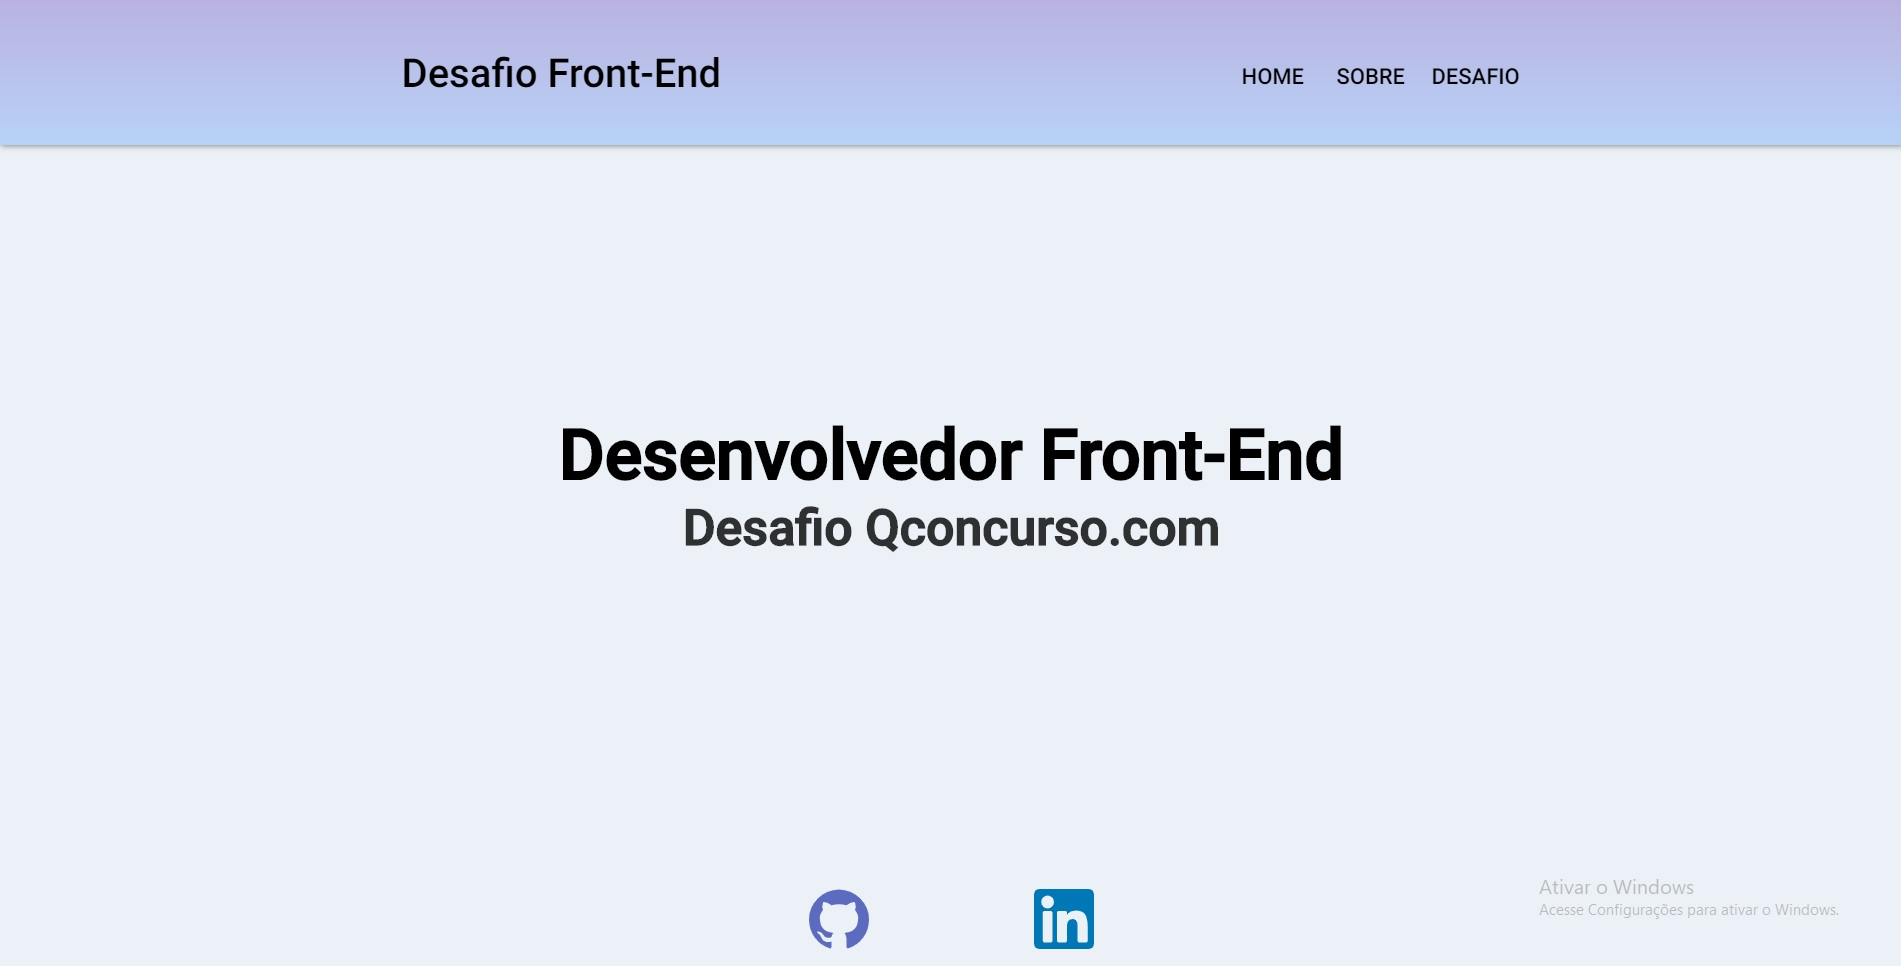
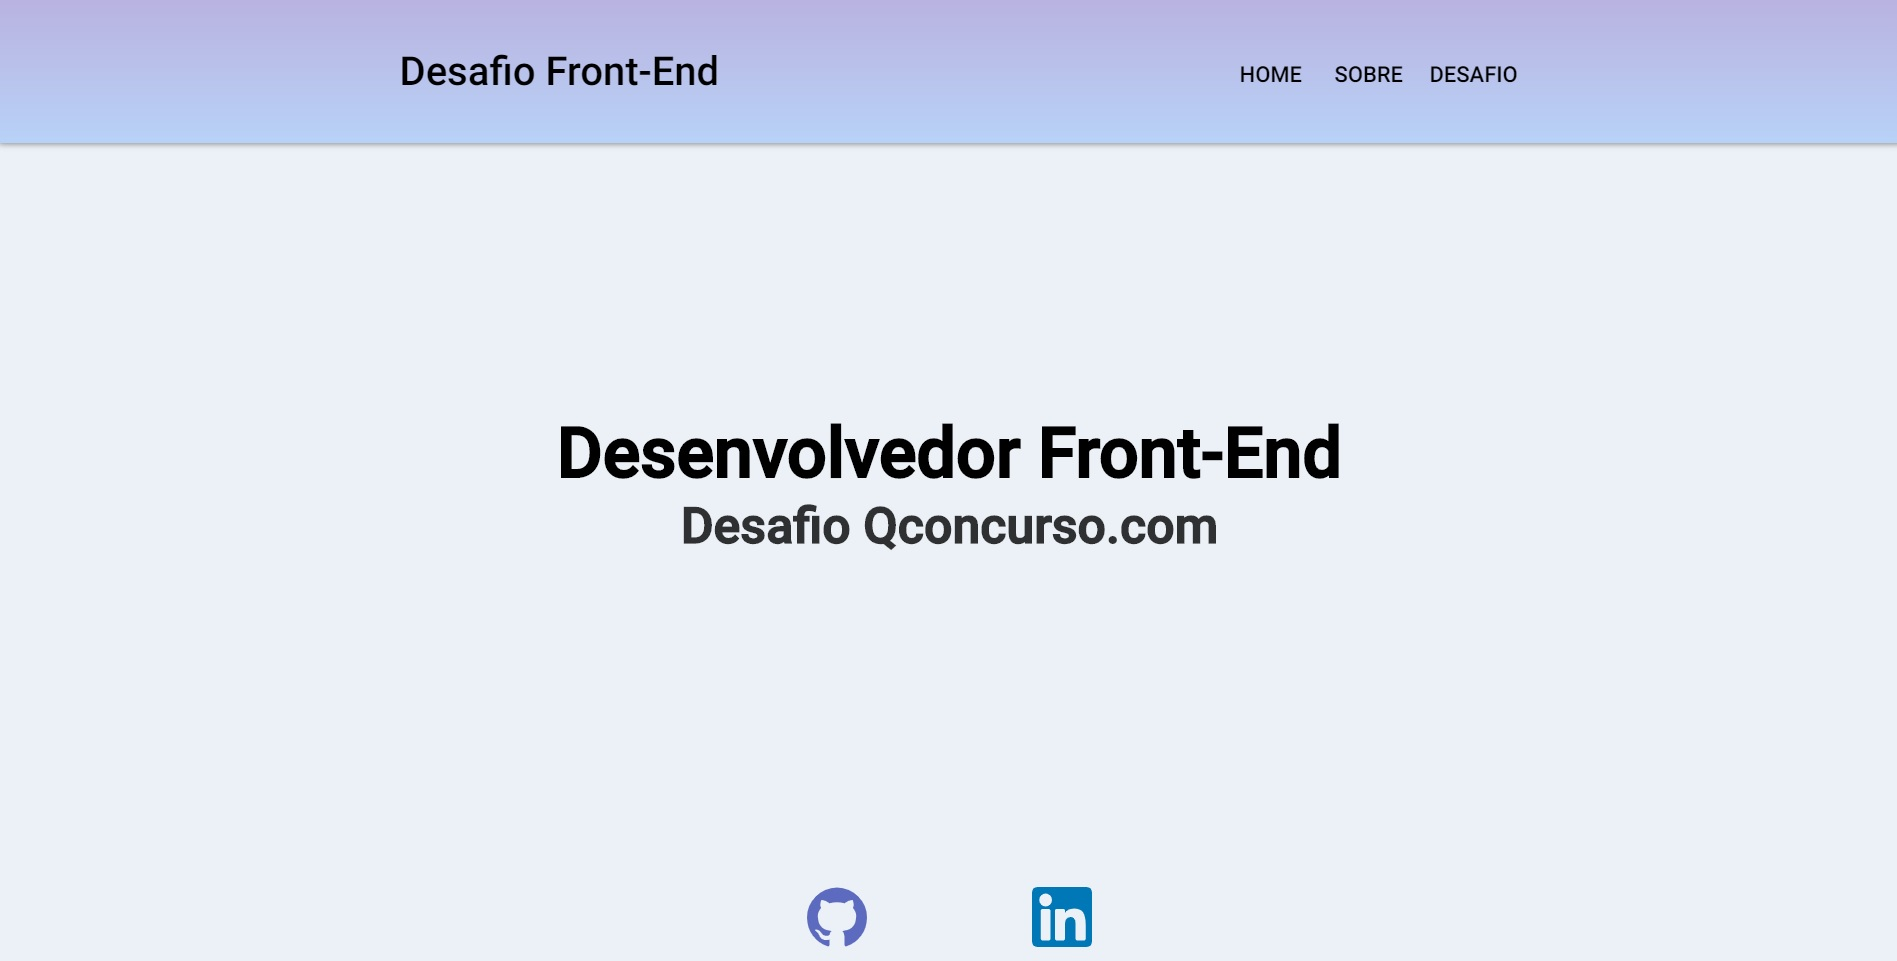
Atualizando as imagens.

diff --git a/README.md b/README.md
@@ -5,7 +5,7 @@ Esse desafio foi proposto pela equipe do Qconcurso, para a candidatura à vaga d
 
 ## Imagens
 
-[Print da página Home]()
+![Print da página Home](https://github.com/carlosdoria/desafio-font-end-qconcursos/blob/main/public/img/Home-page-web.jpg)
 
 ## Sobre o Projeto
 O projeto foi desenvolvido com as seguintes tecnologias e ferramentas:
